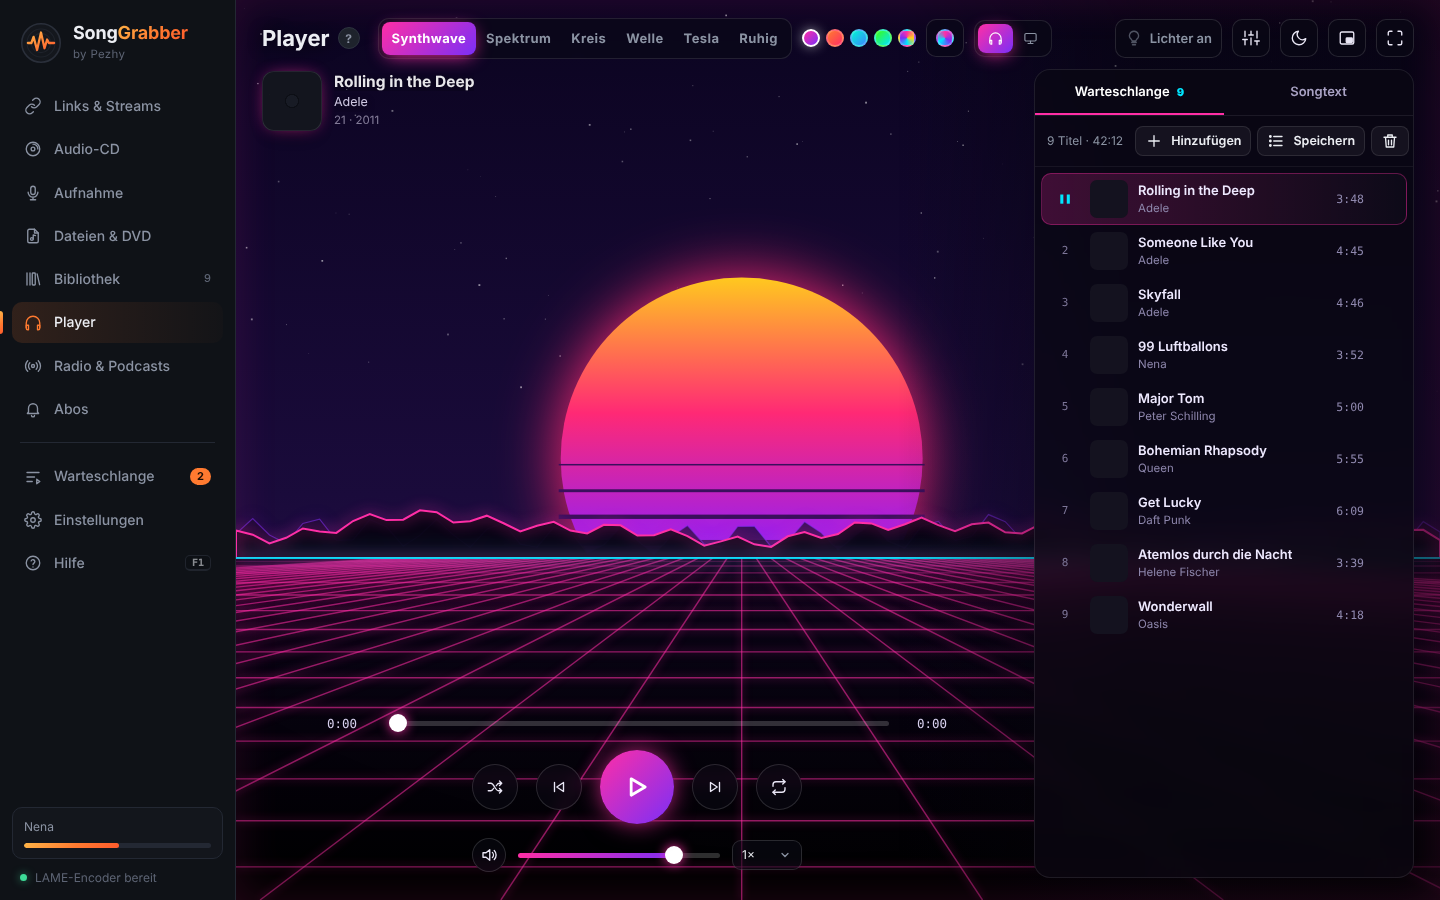
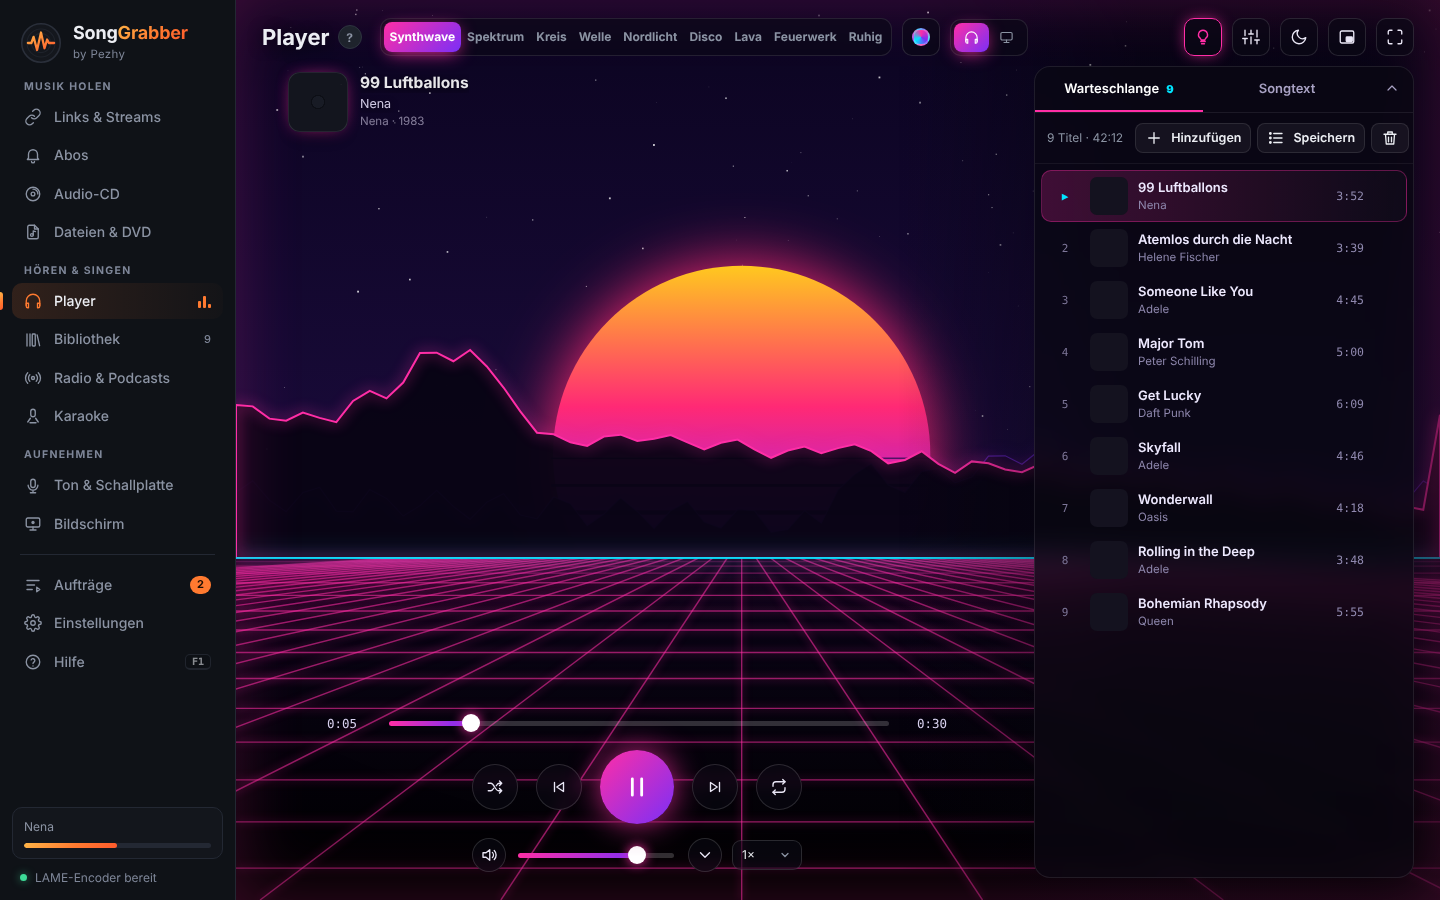
Neue Screenshots für GitHub: Karaoke, Party mit Handy, Battle, Lava-Lampe und alle Seiten im neuen Design
Claude-Session: https://claude.ai/code/session_01WM12Y5HeHjcuV3hhvRQT5J

diff --git a/README.md b/README.md
@@ -14,7 +14,8 @@
 - **Audio CD** – bit-exact ripping, track info and cover from MusicBrainz
 - **Recording** – vinyl, cassette, system sound or microphone with level meter, auto start and automatic track splitting
 - **Screen recording** – Zoom, Teams, webinars as MP4, whole screen, one window or a drawn area, with PC sound and/or microphone
-- **Karaoke** – sing karaoke videos from YouTube without ads, ★ favorites work offline, record your voice + music
+- **Karaoke** – sing karaoke videos from YouTube without ads, change key & tempo, TV mode, points & leaderboard, ⚔ battle and 👥 duet, record your voice + music
+- **Karaoke party** – guests scan a QR code and request songs from their phone (no app), fair order, “Offline only” switch for camping
 - **Player** – nine light shows, equalizer, crossfade, synced lyrics, mini player, radio & podcasts, quick radio recording
 - **Library** – search, tag editor, clean-up of duplicates, playlists, transfer to USB stick/phone
 
@@ -26,10 +27,12 @@ Download: **[latest release](https://github.com/Pezhy69/SongGrabber/releases/lat
 
 | | |
 |---|---|
+| <img src="docs/screenshots/karaoke.png" alt="Karaoke"><br><sub><b>Karaoke</b> – Karaoke-Videos von YouTube ohne Werbung, Tonart & Tempo, Fernseher-Modus, „Wer singt?“-Warteschlange</sub> | <img src="docs/screenshots/party.png" alt="Karaoke-Party mit QR-Code und Handy"><br><sub><b>🎉 Party-Modus</b> – Gäste scannen den QR-Code und wünschen sich Songs vom Handy; Playlists nach Genre, Sprache, Stimmung und Duetten</sub> |
+| <img src="docs/screenshots/battle.png" alt="Karaoke-Battle mit Punkten"><br><sub><b>⚔ Battle & 👥 Duett</b> – zwei gegeneinander oder zusammen, mit Punkten, Sieger und Bestenliste</sub> | <img src="docs/screenshots/lava.png" alt="Lichtshow Lava-Lampe"><br><sub><b>Lichtshow „Lava“</b> – eine von neun Lichtshows, alle im Takt der Musik</sub> |
 | <img src="docs/screenshots/links.png" alt="Links & Streams: YouTube-Album wird in Titel aufgeteilt"><br><sub><b>Links & Streams</b> – ganze Alben von YouTube & Co., automatisch in Titel geteilt und getaggt</sub> | <img src="docs/screenshots/cd.png" alt="Audio-CD mit Titeln von MusicBrainz"><br><sub><b>Audio-CD</b> – Bit für Bit gelesen, Titel und Cover von MusicBrainz</sub> |
-| <img src="docs/screenshots/rec.png" alt="Aufnahme mit Pegelanzeige"><br><sub><b>Aufnahme</b> – Schallplatte, Kassette, Systemsound oder Mikrofon mit Pegelanzeige</sub> | <img src="docs/screenshots/library.png" alt="Bibliothek"><br><sub><b>Bibliothek</b> – suchen, abspielen, aufräumen, Playlists erstellen</sub> |
-| <img src="docs/screenshots/screen.png" alt="Bildschirm aufnehmen"><br><sub><b>Bildschirm aufnehmen</b> – Zoom, Teams, Webinare als Video; klar sichtbar, ob PC-Ton und Mikrofon mit drauf sind</sub> | <img src="docs/screenshots/aurora.png" alt="Lichtshow Nordlicht"><br><sub><b>Lichtshow „Nordlicht“</b> – eine von neun Lichtshows, alle im Takt der Musik</sub> |
-| <img src="docs/screenshots/radio.png" alt="Radio & Podcasts"><br><sub><b>Radio & Podcasts</b> – über 30.000 Sender mit Songtext und Mitschnitt</sub> | <sub><b>Player</b> (oben) – Lichtshow mit 6 Stilen und eigenen Farben, Equalizer, mitlaufender Songtext, Mini-Player, Überblenden</sub> |
+| <img src="docs/screenshots/rec.png" alt="Aufnahme mit Pegelanzeige"><br><sub><b>Ton & Schallplatte</b> – Schallplatte, Kassette, Systemsound oder Mikrofon mit Pegelanzeige</sub> | <img src="docs/screenshots/library.png" alt="Bibliothek"><br><sub><b>Bibliothek</b> – suchen, abspielen, aufräumen, Playlists erstellen</sub> |
+| <img src="docs/screenshots/screen.png" alt="Bildschirm aufnehmen"><br><sub><b>Bildschirm aufnehmen</b> – Zoom, Teams, Webinare als Video; klar sichtbar, ob PC-Ton und Mikrofon mit drauf sind</sub> | <img src="docs/screenshots/aurora.png" alt="Lichtshow Nordlicht"><br><sub><b>Lichtshow „Nordlicht“</b> – Lichtschleier über Bergen, Bass hebt sie an</sub> |
+| <img src="docs/screenshots/radio.png" alt="Radio & Podcasts"><br><sub><b>Radio & Podcasts</b> – über 30.000 Sender mit Songtext und Sofort-Mitschnitt</sub> | <sub><b>Player</b> (oben) – neun Lichtshows mit eigenen Farben, Equalizer, mitlaufender Songtext, Mini-Player, Überblenden</sub> |
 
 Audio von **Audio-CD, Links/Streams, Schallplatte/Kassette/Systemsound und Dateien/DVD** – dazu **Bildschirmaufnahmen als Video** (Zoom, Teams, Webinare) – als
 **MP3 (LAME), WAV oder FLAC** – mit ID3-Tags, Cover und schöner Oberfläche. Läuft komplett autark
